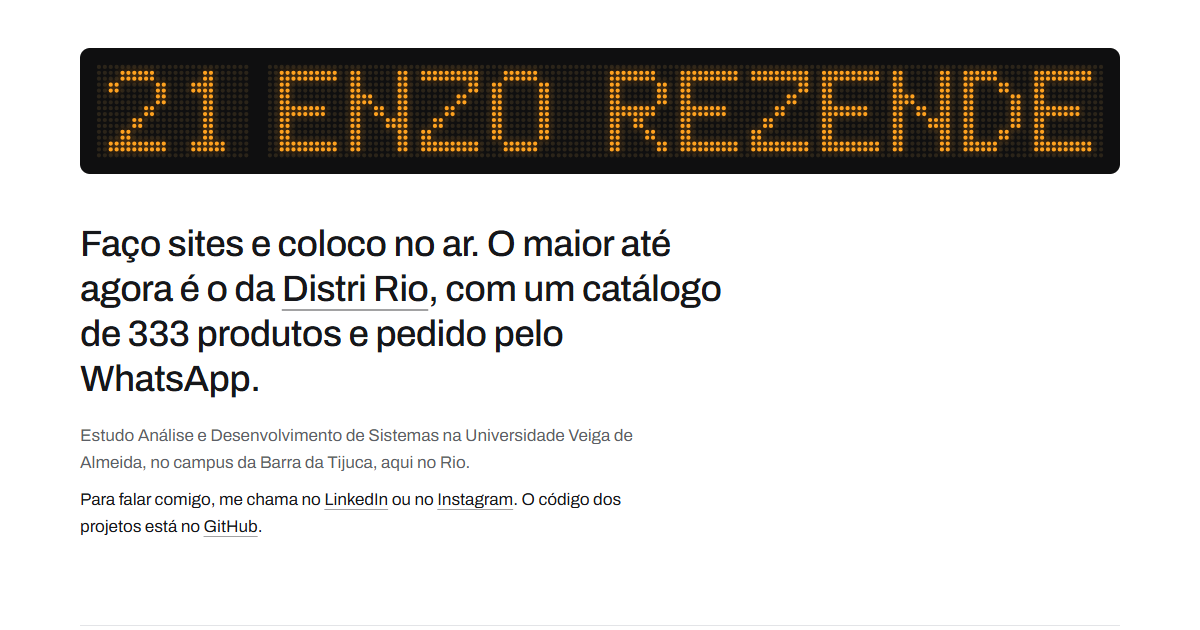
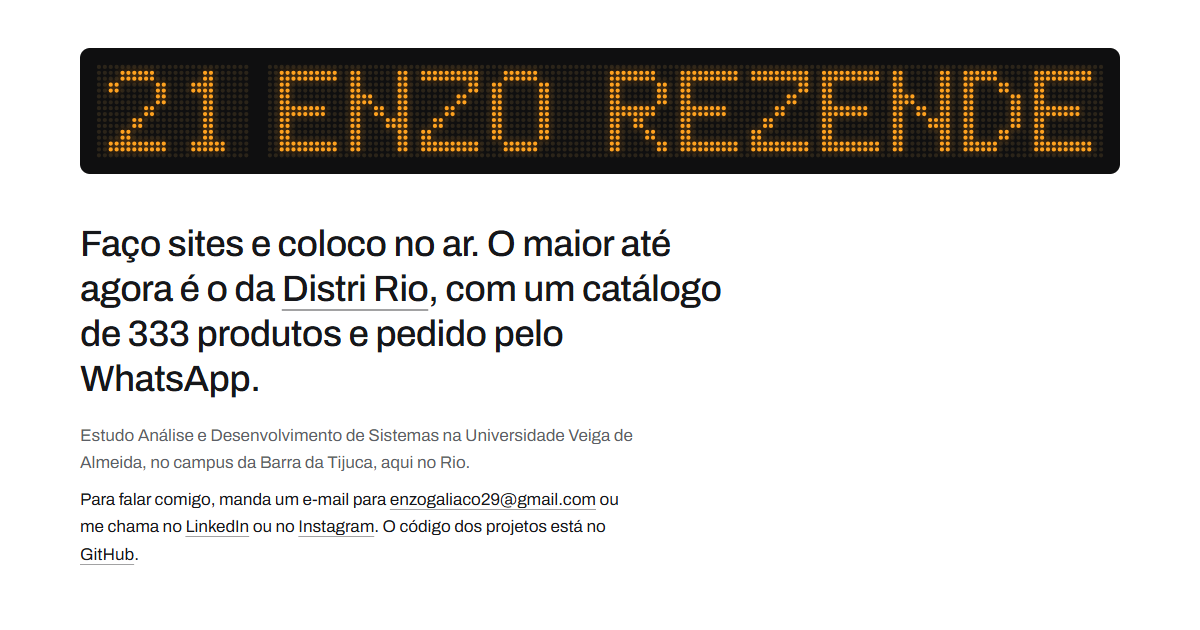
Adiciona o e-mail e volta o link do Catálogo de Séries, agora corrigido

Changed region(s): [[0.0617, 0.7841, 0.5242, 0.8444], [0.0617, 0.8746, 0.1233, 0.9048]]

diff --git a/index.html b/index.html
@@ -264,6 +264,7 @@
   "name": "Enzo Rezende",
   "url": "https://enzogaliazzo.github.io/",
   "jobTitle": "Desenvolvedor web",
+  "email": "mailto:enzogaliaco29@gmail.com",
   "address": { "@type": "PostalAddress", "addressLocality": "Rio de Janeiro", "addressCountry": "BR" },
   "affiliation": { "@type": "CollegeOrUniversity", "name": "Universidade Veiga de Almeida" },
   "sameAs": [
@@ -285,7 +286,7 @@
   <div class="apresentacao">
     <p class="abertura">Faço sites e coloco no ar. O maior até agora é o da <a href="#distri-rio">Distri Rio</a>, com um catálogo de 333 produtos e pedido pelo WhatsApp.</p>
     <p class="resumo">Estudo Análise e Desenvolvimento de Sistemas na Universidade Veiga de Almeida, no campus da Barra da Tijuca, aqui no Rio.</p>
-    <p class="convite">Para falar comigo, me chama no <a href="https://www.linkedin.com/in/enzorezende07/">LinkedIn</a> ou no <a href="https://www.instagram.com/galiaco0/">Instagram</a>. O código dos projetos está no <a href="https://github.com/EnzoGaliazzo">GitHub</a>.</p>
+    <p class="convite">Para falar comigo, manda um e-mail para <a href="mailto:enzogaliaco29@gmail.com">enzogaliaco29@gmail.com</a> ou me chama no <a href="https://www.linkedin.com/in/enzorezende07/">LinkedIn</a> ou no <a href="https://www.instagram.com/galiaco0/">Instagram</a>. O código dos projetos está no <a href="https://github.com/EnzoGaliazzo">GitHub</a>.</p>
   </div>
 </header>
 
@@ -340,6 +341,7 @@
         <p class="projeto-meta">Projeto de estudo na Alura</p>
         <p class="descricao">Um catálogo que carrega as séries de um arquivo JSON, com busca por nome, filtro por gênero e os detalhes de cada título numa janela. Fiz para praticar front-end: mexer no DOM, trabalhar com dados em JSON e montar um layout responsivo.</p>
         <p class="links-projeto">
+          <a href="https://enzogaliazzo.github.io/ProjetoAlura/">Ver o projeto</a>
           <a href="https://github.com/EnzoGaliazzo/ProjetoAlura">Ver o código</a>
         </p>
       </div>
@@ -364,6 +366,7 @@
         <dt>Contato</dt>
         <dd>
           <ul class="contatos">
+            <li><span class="fraco">E-mail</span> <a href="mailto:enzogaliaco29@gmail.com">enzogaliaco29@gmail.com</a></li>
             <li><span class="fraco">LinkedIn</span> <a href="https://www.linkedin.com/in/enzorezende07/">enzorezende07</a></li>
             <li><span class="fraco">Instagram</span> <a href="https://www.instagram.com/galiaco0/">@galiaco0</a></li>
             <li><span class="fraco">GitHub</span> <a href="https://github.com/EnzoGaliazzo">EnzoGaliazzo</a></li>
